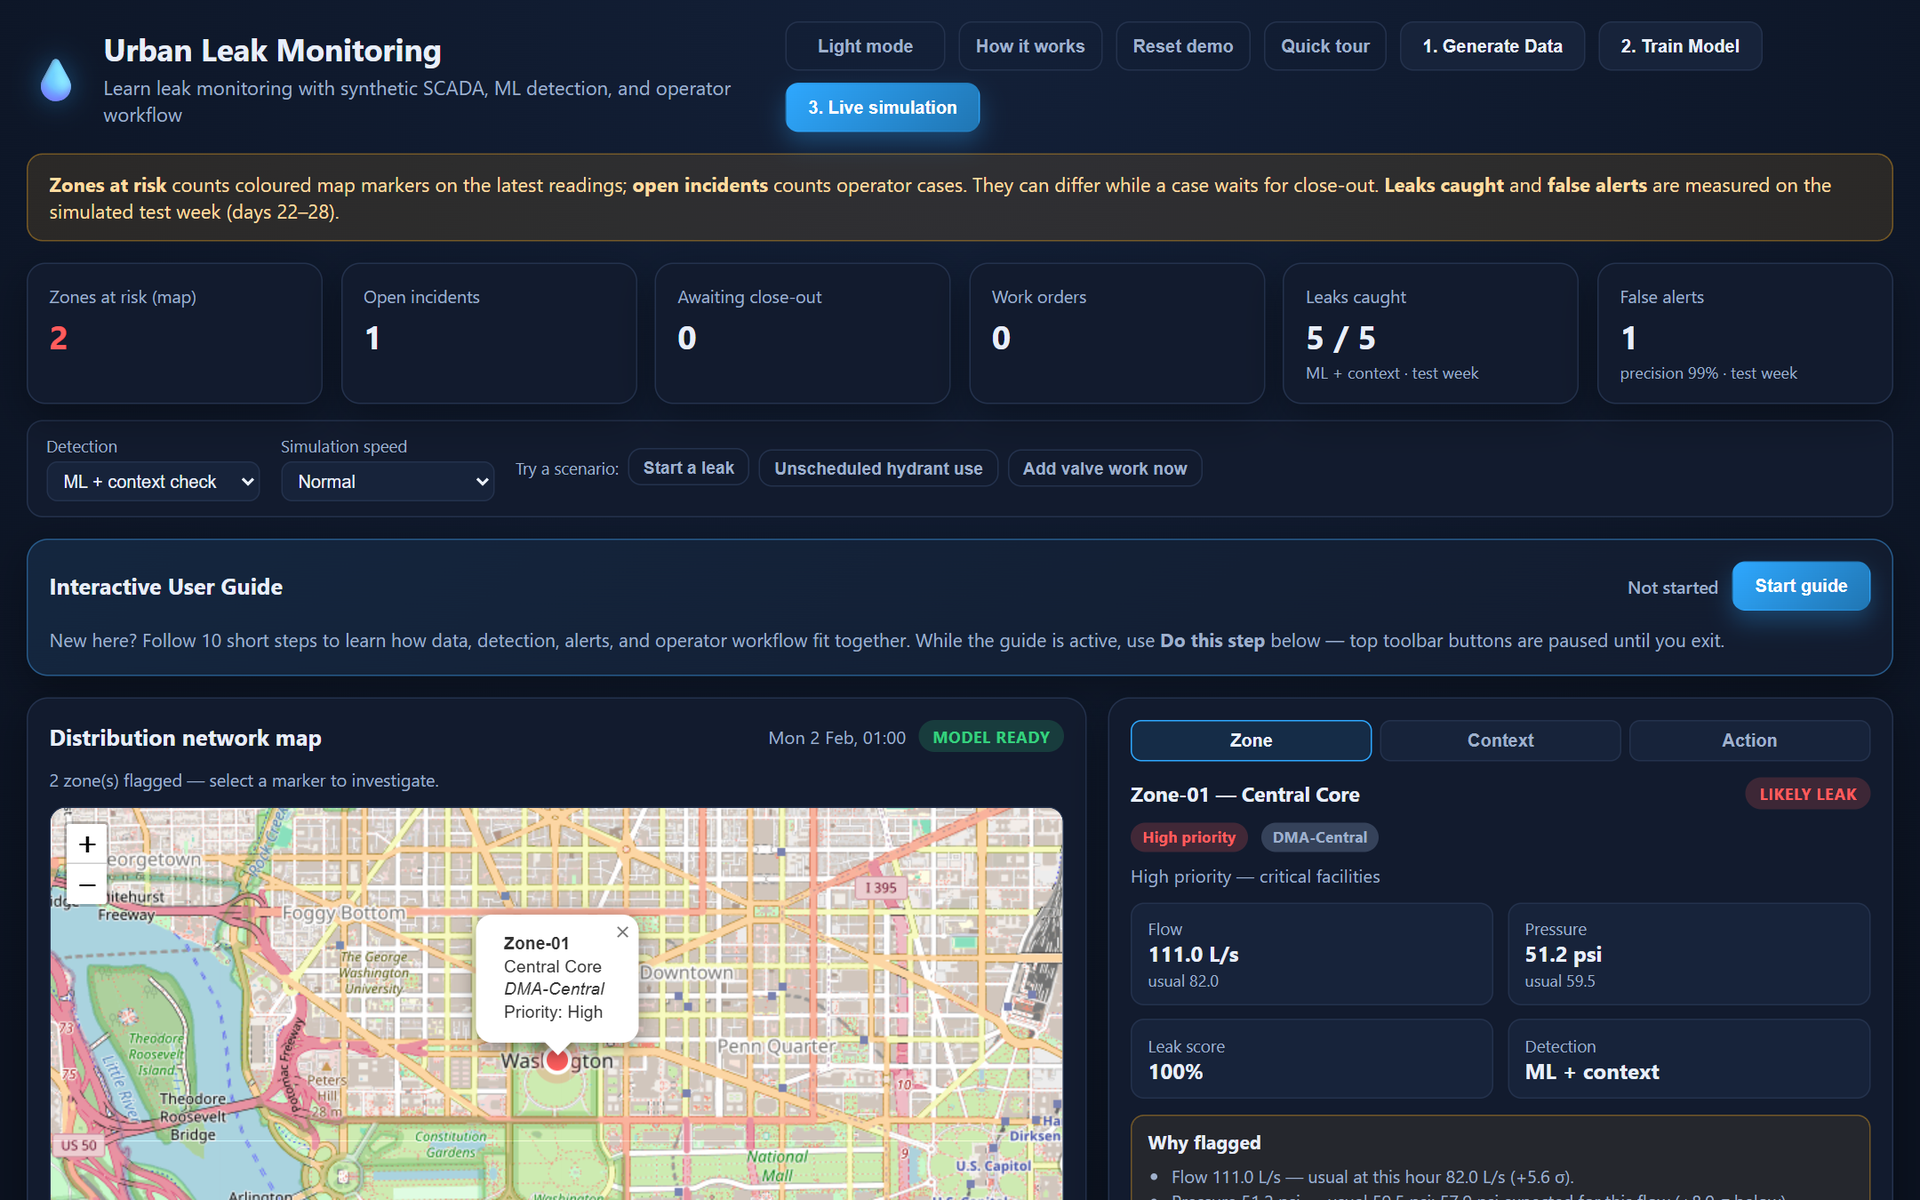
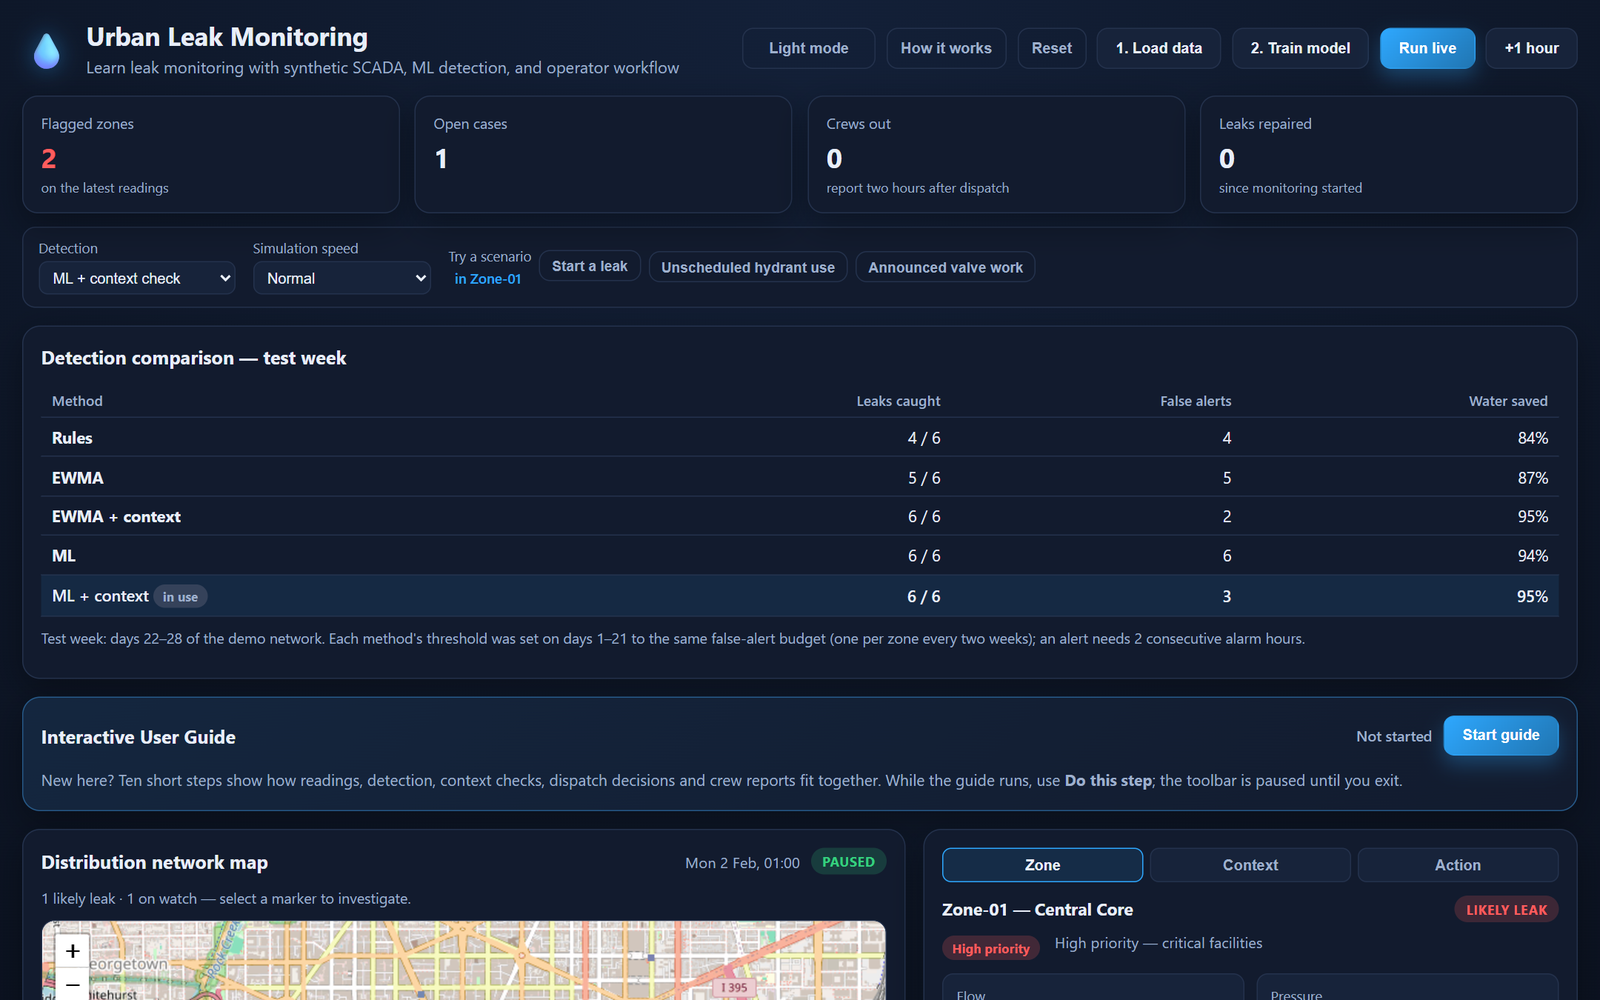
Water Leak Monitoring v3: equal false-alert budgets, water saved, EWMA, crew dispatch; new dark screenshots and figures

diff --git a/project-water-leak.html b/project-water-leak.html
@@ -68,7 +68,7 @@
     <div class="container">
       <span class="research-kicker">Independent research application</span>
       <h1 class="h1">Water Leak Monitoring Dashboard</h1>
-      <p class="lead">A teaching dashboard and simulation study on leak alarms: most false alarms come from planned work and hot-weather demand, and a context check using only what an operator knows removes 81% of them.</p>
+      <p class="lead">A teaching dashboard and simulation study on leak alarms: with every detector held to the same rate of wasted crew trips, a context check using only what an operator knows lifts leaks caught from 83–90% to 97% and leak water saved from 86–88% to 93%.</p>
       <div class="research-hero-actions">
         <a href="https://github.com/suadarzimanli/water-leak-monitoring-dashboard/blob/main/paper/urban-leak-monitoring.pdf" class="btn btn-primary" target="_blank" rel="noopener"><svg width="16" height="16"><use href="#i-external"/></svg> Read the paper (PDF)</a>
         <a href="https://github.com/suadarzimanli/water-leak-monitoring-dashboard" class="btn btn-outline" target="_blank" rel="noopener"><svg width="16" height="16"><use href="#i-github"/></svg> Code on GitHub</a>
@@ -82,8 +82,8 @@
   <section class="section">
     <div class="container">
       <div class="research-metrics">
-        <div class="research-metric"><span class="val">81%</span><span class="lbl">Fewer false alerts with the context check</span></div>
-        <div class="research-metric"><span class="val">369/400</span><span class="lbl">Test leaks detected (ML + context)</span></div>
+        <div class="research-metric"><span class="val">93%</span><span class="lbl">Leak water saved with the context check (vs 86–88%)</span></div>
+        <div class="research-metric"><span class="val">382/393</span><span class="lbl">Test leaks caught (EWMA + context)</span></div>
         <div class="research-metric"><span class="val">40</span><span class="lbl">Simulated networks in the confirmation study</span></div>
       </div>
 
@@ -103,7 +103,7 @@
               <p class="research-aside-title" style="margin-top:16px">Technologies</p>
               <ul class="research-aside-list">
                 <li>JavaScript (ES modules) · Leaflet · Chart.js</li>
-                <li>Logistic regression (in the browser)</li>
+                <li>EWMA control chart · logistic regression (in the browser)</li>
                 <li>Seeded network simulator</li>
                 <li>Node test runner · Python figures</li>
               </ul>
@@ -115,25 +115,25 @@
           <div class="research-block">
             <p class="research-section-label">Overview</p>
             <h2>What this project does</h2>
-            <p>Eight pressure zones report hourly flow and pressure with daily demand peaks and weather. Hidden leaks persist until repaired, alongside events that look like leaks: scheduled hydrant tests and valve work, unscheduled hydrant use, drifting pressure sensors and hot-weather demand. Rules, a logistic regression and the model plus a <strong>context check</strong> are compared on leaks caught and false alerts rather than accuracy. Operators work each incident from acknowledgement to close-out and see what the simulation really contained only after deciding.</p>
+            <p>Eight pressure zones report hourly flow and pressure with weekday and weekend demand and weather. Hidden leaks run until a crew repairs them or customers report them, alongside events that look like leaks: planned hydrant tests and valve work (published in a schedule that is incomplete and sometimes wrong), unscheduled hydrant use, drifting pressure sensors and hot-weather demand. Rules, a label-free EWMA control chart and a logistic regression, each with and without a <strong>context check</strong>, are held to the same false-alert budget and compared by leaks caught and leak water saved. In the dashboard the operator decides whether to dispatch a crew; the crew's report two hours later reveals what the simulation contained.</p>
           </div>
           <div class="research-block">
             <p class="research-section-label">Research questions</p>
             <h2>What I set out to answer</h2>
             <ul>
-              <li>How do threshold rules and a learned model compare in leaks detected and false alerts when leak-like operational events are present?</li>
-              <li>Does training the model with those look-alike events reduce its false alerts?</li>
-              <li>How many false alerts does a context check using only operator-visible information remove, and what does it cost in missed leaks?</li>
-              <li>How can a dashboard teach the path from alarm to close-out without showing what an operator could not know?</li>
+              <li>At the same false-alert budget, how do threshold rules, a label-free EWMA chart and a learned model compare in leaks caught, delay and water saved?</li>
+              <li>How much does a context check using only operator-visible information add, and does it survive an unreliable maintenance schedule?</li>
+              <li>How much does a learned detector depend on label quality and on representative training data?</li>
+              <li>How can a dashboard teach the path from alarm to crew report without showing what an operator could not know?</li>
             </ul>
           </div>
           <div class="research-block">
             <p class="research-section-label">Key findings</p>
             <h2>What the study showed</h2>
             <ul>
-              <li>The learned model caught more leaks than the rules (376 vs 308 of 400) but raised 2.5× as many false alerts.</li>
-              <li>Training with hydrant tests, valve work and demand peaks did not reduce false alerts: in flow and pressure they look like small leaks.</li>
-              <li>A context check using the published schedule, the weather and whether pressure fits the flow cut false alerts from 1.02 to 0.19 per zone-week (−81%) while losing 7 of 400 leaks.</li>
+              <li>At the same false-alert rate, rules, EWMA and ML alone caught 328–353 of 393 leaks and saved 86–88% of the leak water; with the context check, 381–382 leaks and 93%.</li>
+              <li>With context, the label-free EWMA chart was as good as the supervised model; trained on realistic labels (the hours before a customer report), the model caught only 142 leaks.</li>
+              <li>The gain held when only half the planned work was announced, with noisier sensors, smaller leaks and twice as many look-alike events.</li>
             </ul>
           </div>
         </div>
@@ -148,32 +148,36 @@
       <p class="text-muted mb16">Click any image to zoom in.</p>
       <div class="ss-grid">
         <figure class="ss-card">
-          <img src="./research/water-leak/fig-dashboard-overview.png" alt="Dashboard with metrics, detection mode and the user guide" loading="lazy" decoding="async"/>
-          <figcaption>Overview — leaks caught and false alerts on the test week, detection modes and scenario buttons</figcaption>
+          <img src="./research/water-leak/fig-dashboard-overview.png" alt="Dashboard with counters, scenario buttons and the detection comparison" loading="lazy" decoding="async"/>
+          <figcaption>Overview — counters, scenarios for the selected zone, and all five methods compared on the test week</figcaption>
         </figure>
         <figure class="ss-card">
           <img src="./research/water-leak/fig-zone-inspector.png" alt="Zone inspector during a leak with flow and pressure charts" loading="lazy" decoding="async"/>
-          <figcaption>Zone inspector — readings against the usual values for the hour, reasons for the alarm, stacked flow and pressure history</figcaption>
+          <figcaption>Zone inspector — readings against the usual values for the day type and hour, alarm level against the threshold, reasons for the alarm</figcaption>
         </figure>
         <figure class="ss-card">
-          <img src="./research/water-leak/fig-context.png" alt="Context tab explaining an alarm by scheduled valve work" loading="lazy" decoding="async"/>
-          <figcaption>Context check — scheduled valve work explains the alarm, so no incident opens</figcaption>
+          <img src="./research/water-leak/fig-context.png" alt="Context tab explaining an alarm by announced valve work" loading="lazy" decoding="async"/>
+          <figcaption>Context check — announced valve work explains the alarm, so no incident opens</figcaption>
         </figure>
         <figure class="ss-card">
-          <img src="./research/water-leak/fig-workflow.png" alt="Closed incident with workflow steps and outcome" loading="lazy" decoding="async"/>
-          <figcaption>Workflow — acknowledge, work order, dispatch, close; the simulated truth is revealed only after the decision</figcaption>
+          <img src="./research/water-leak/fig-workflow.png" alt="Closed incident with workflow steps, crew report and outcome" loading="lazy" decoding="async"/>
+          <figcaption>Workflow — acknowledge, dispatch a crew; its report closes the case and shows the water saved</figcaption>
         </figure>
         <figure class="ss-card">
           <img src="./research/water-leak/fig-phone.png" alt="Three phone screens of the dashboard" loading="lazy" decoding="async"/>
-          <figcaption>Phone — controls and results, map with a flagged zone, context tab</figcaption>
+          <figcaption>Phone — scenarios and comparison, map with a flagged zone, context tab</figcaption>
         </figure>
         <figure class="ss-card">
-          <img src="./research/water-leak/fig-tradeoff.png" alt="Chart of leaks detected against false alerts for four methods" loading="lazy" decoding="async"/>
-          <figcaption>Study — leaks detected vs false alerts on 40 networks; ML + context is closest to the ideal corner</figcaption>
+          <img src="./research/water-leak/fig-tradeoff.png" alt="Chart of leak water saved against false alerts for five methods" loading="lazy" decoding="async"/>
+          <figcaption>Study — leak water saved vs false alerts across budgets on 40 networks; the context methods lead wherever false alerts are scarce</figcaption>
         </figure>
         <figure class="ss-card">
           <img src="./research/water-leak/fig-causes.png" alt="Stacked bars of false alerts by cause" loading="lazy" decoding="async"/>
-          <figcaption>Study — what caused the false alerts; the context check removes all from scheduled work and demand peaks</figcaption>
+          <figcaption>Study — what caused the false alerts; with context, those from announced work and demand peaks disappear</figcaption>
+        </figure>
+        <figure class="ss-card">
+          <img src="./research/water-leak/fig-schedules.png" alt="Leaks caught and false alerts as the maintenance schedule becomes less reliable" loading="lazy" decoding="async"/>
+          <figcaption>Study — the context check still works when only half the planned work is announced</figcaption>
         </figure>
         <figure class="ss-card">
           <img src="./research/water-leak/fig-example.png" alt="One zone-week with flow, pressure, events and alerts" loading="lazy" decoding="async"/>

diff --git a/research.html b/research.html
@@ -153,13 +153,13 @@
         <div class="research-entry-body">
           <div class="research-entry-meta">Infrastructure GIS · Operator workflow · ML</div>
           <h2 class="h2">Water Leak Monitoring Dashboard</h2>
-          <p class="lead">A teaching dashboard and simulation study on leak alarms: most false alarms come from planned work and hot-weather demand, and a context check using only what an operator knows removes 81% of them.</p>
+          <p class="lead">A teaching dashboard and simulation study on leak alarms: with every detector held to the same rate of wasted crew trips, a context check using only what an operator knows lifts leaks caught from 83–90% to 97% and leak water saved from 86–88% to 93%.</p>
           <div class="research-stats-row">
             <span class="research-stat-pill">40 simulated networks</span>
-            <span class="research-stat-pill">−81% false alerts</span>
+            <span class="research-stat-pill">93% leak water saved</span>
             <span class="research-stat-pill">Paper + code public</span>
           </div>
-          <p class="research-focus"><strong>Research focus:</strong> Where the information that separates leaks from look-alike events lies — in the readings or in what an operator knows — and how much a context check reduces false alerts.</p>
+          <p class="research-focus"><strong>Research focus:</strong> Comparing leak detectors at the same false-alert budget by leaks caught and water saved, and showing that what an operator knows — the schedule and the weather — matters more than the choice of detector.</p>
           <div class="research-entry-actions">
             <a href="project-water-leak.html" class="btn btn-primary"><svg width="16" height="16"><use href="#i-external"/></svg> Full write-up</a>
             <a href="https://suadarzimanli.github.io/water-leak-monitoring-dashboard/" class="btn btn-outline" target="_blank" rel="noopener"><svg width="16" height="16"><use href="#i-external"/></svg> Open live app</a>

diff --git a/projects.html b/projects.html
@@ -153,7 +153,7 @@
           </div>
           <div class="card-body">
             <div class="h3">Water Leak Monitoring</div>
-            <p class="text-muted">Leak-alarm dashboard and simulation study: rules vs ML vs a context check on 40 simulated networks, plus an operator close-out workflow.</p>
+            <p class="text-muted">Leak-alarm dashboard and simulation study: rules, EWMA and ML with and without a context check at equal false-alert budgets on 40 simulated networks, plus crew dispatch and reports.</p>
             <div class="flex gap8 mb16" style="flex-wrap:wrap">
               <span class="badge badge-white">Leaflet</span>
               <span class="badge badge-white">JavaScript</span>
